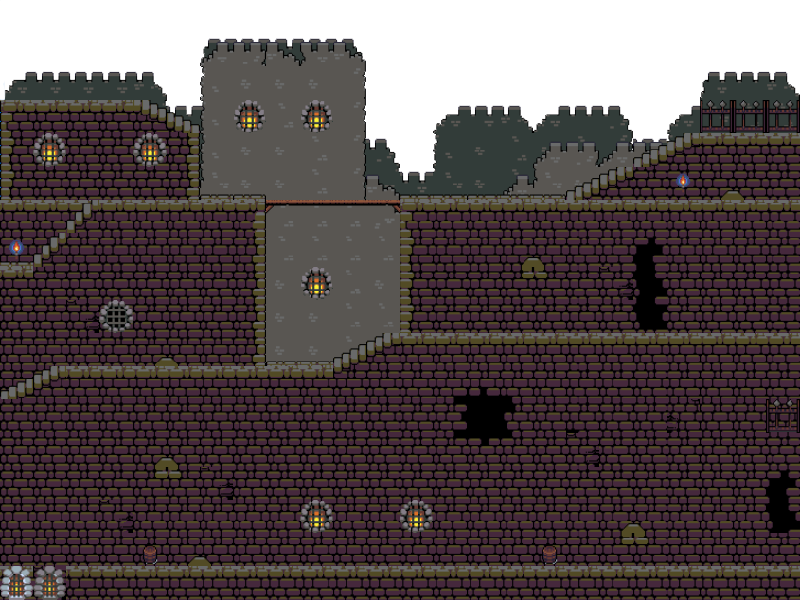
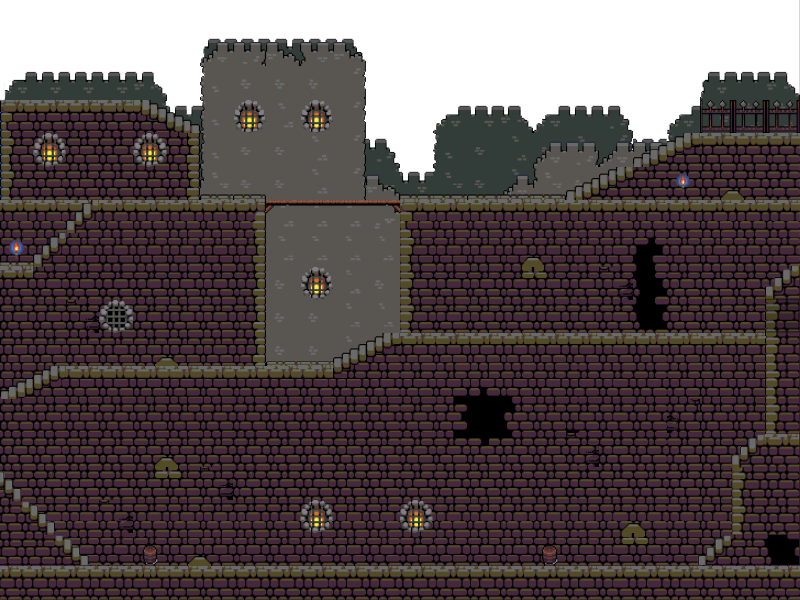
Removed vignette and corrected bas castle image

Changed region(s): [[0.8125, 0.45, 1.0, 1.0], [0.0, 0.78, 0.1875, 1.0]]

diff --git a/src/org/academiadecodigo/murlogs/castleinvaders/Field.java b/src/org/academiadecodigo/murlogs/castleinvaders/Field.java
@@ -40,7 +40,7 @@ public class Field {
         playerDoor.draw();
 
         vignette = new Picture(0, 0, "vignette.png");
-        vignette.draw();
+        //vignette.draw();
 
         score = new Text(730, 11, ("Score: " + currentScore));
         score.setColor(Color.YELLOW);
